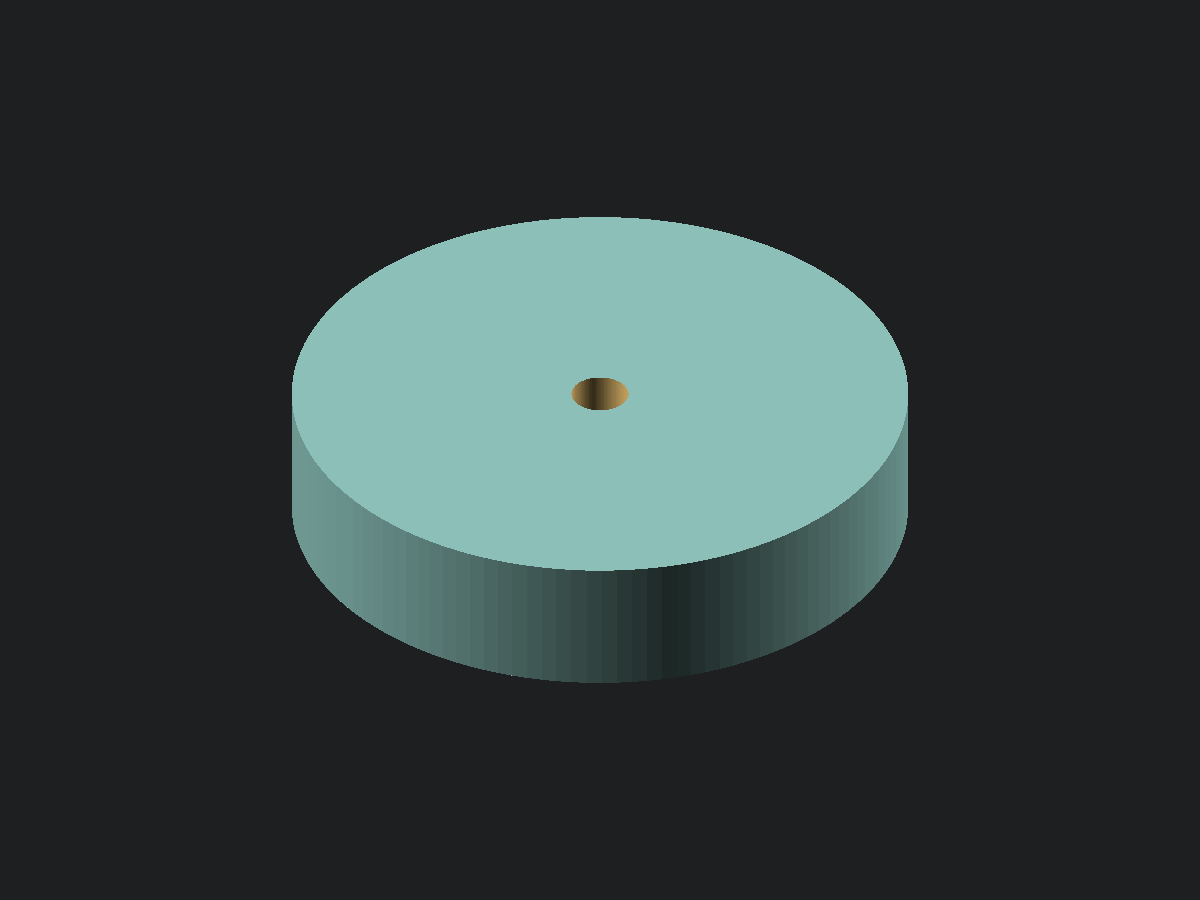
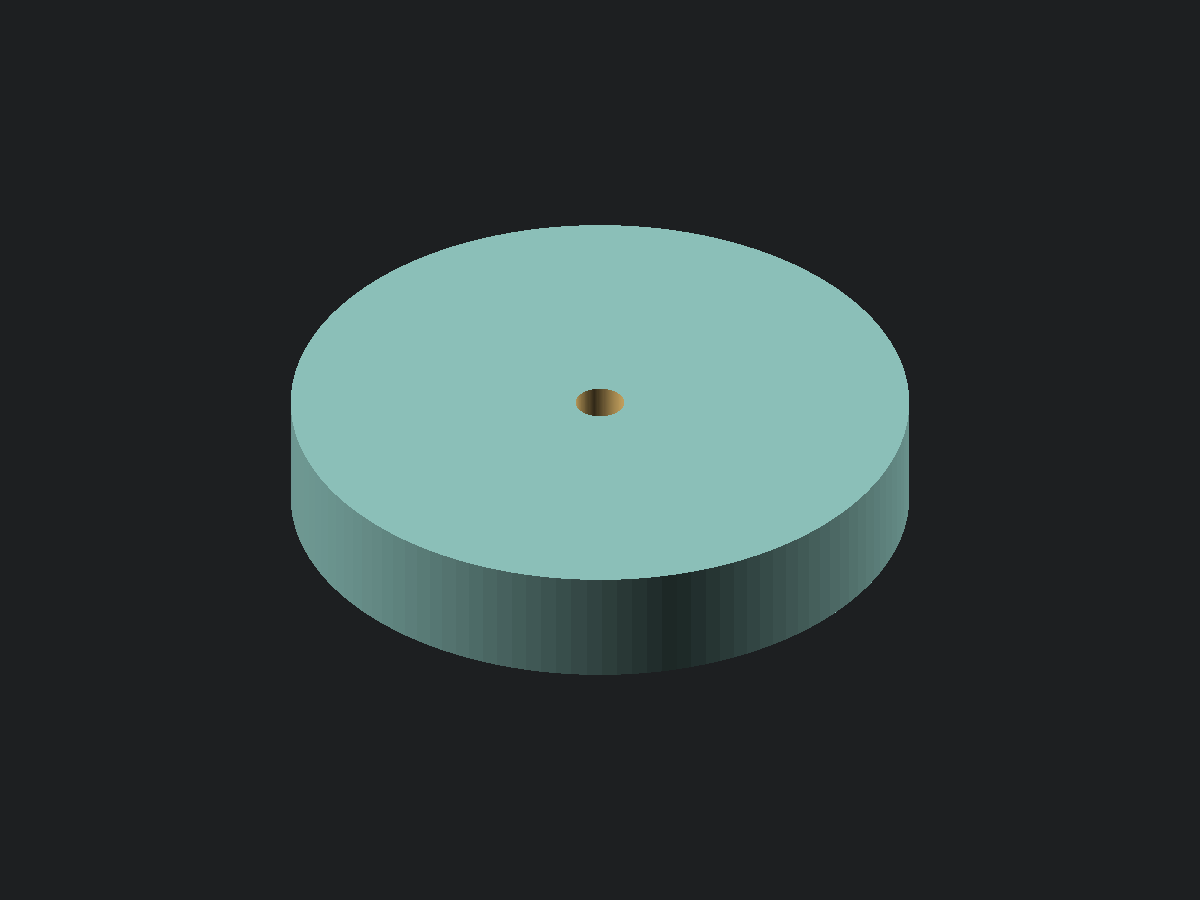
🔧 Size mounting discs for 30 mm adhesive pads

diff --git a/adhesive_mounting_disc/README.md b/adhesive_mounting_disc/README.md
@@ -11,14 +11,15 @@ adhesive disc sticks it to the back of a TV; a screw through an openGrid tile bi
 plastic. No screw goes into the TV and no heat-set insert is used. It is similar to the
 [round washer](../round_washer/README.md), with a closed bottom instead of a through bore.
 
-All dimensions are in millimetres. The supplied values are **examples**, pending the actual adhesive
-discs, screws, and tile geometry. See [openGrid notes](../OPENGRID.md) for the system.
+All dimensions are in millimetres. The disc is sized for the selected **30 mm adhesive-pad option**,
+advertised as 1 mm thick. Screw and bore dimensions remain **examples**, pending the actual screws
+and tile geometry. See [openGrid notes](../OPENGRID.md) for the system.
 
 ## Measurements and tuning
 
 | Measured parameter       | Default | Measure                               | Caliper |
 | ------------------------ | ------- | ------------------------------------- | ------- |
-| `adhesive_disc_diameter` | 25 mm   | Outside jaws across the adhesive disc | 6 in    |
+| `adhesive_disc_diameter` | 30 mm   | Outside jaws across the adhesive disc | 6 in    |
 | `screw_diameter`         | 3 mm    | Outside jaws over the screw threads   | 6 in    |
 
 | Tuning parameter  | Default | Meaning                                                      |
@@ -29,7 +30,7 @@ discs, screws, and tile geometry. See [openGrid notes](../OPENGRID.md) for the s
 | `floor_thickness` | 1 mm    | Solid plastic below the bore; values below 1 mm are rejected |
 | `$fn`             | 128     | Circular resolution                                          |
 
-The outside diameter is `adhesive_disc_diameter + 2 * adhesive_margin`: **27 mm** with the defaults.
+The outside diameter is `adhesive_disc_diameter + 2 * adhesive_margin`: **32 mm** with the defaults.
 Total thickness is `bore_depth + floor_thickness`: **6 mm** with the defaults. Increasing bore depth
 increases total thickness rather than thinning the floor. The source echoes these derived values,
 the pilot dimensions, floor thickness, and radial material remaining outside the screw threads.
@@ -58,10 +59,11 @@ Check that the chosen disc diameter fits behind the selected tile holes without 
 neighbouring discs, tile ribs, or required snap space. The disc has no grid features or spacing
 constraint; compatibility depends on the tile generator and hole positions you choose.
 
-Trial-fit the screw and tile on a loose disc before applying adhesive. Check fit and full tip reach,
-then use the adhesive maker's surface-preparation and curing instructions. Confirm the selected
-adhesive and printed material suit the TV's rear surface and operating temperature, and keep vents
-clear. Adhesion, screw retention, and load capacity need physical testing with the actual hardware.
+Adhesive mounting already works on an existing LG C5 used as a desktop monitor: accessories have
+been attached successfully with AliExpress "Alien Tape". The next physical check for this design is
+the printed disc and screw interface. Trial-fit the screw and tile on a loose disc before applying
+adhesive, checking thread bite and full tip reach. The adhesive sits on the flat closed face; its
+advertised 1 mm thickness adds to the spacing without changing the printed geometry.
 
 ## Printing and verification
 
@@ -74,8 +76,8 @@ face.
 The example dimensions have not been physically printed or fit-tested. A 1 mm minimum preserves a
 closed model; its suitability for the chosen screw and load remains untested.
 
-Geometry verified on 2026-11-06: the default export reported manifold `Status: NoError`; its mesh
-was closed with no overhangs past 45°. Scratch renders also checked a 10 mm bore depth, a 2 mm
+Geometry verified on 2026-11-06: the 32 mm default export reported manifold `Status: NoError`; its
+mesh was closed with no overhangs past 45°. Scratch renders also checked a 10 mm bore depth, a 2 mm
 floor, and a 40 mm adhesive disc. Mesh dimensions, bore-floor height and area, and volume matched
 the intended blind-bore geometry in all four cases. Floors of 0.99, 0, and -1 mm were rejected,
 along with zero bore depth, zero bore diameter, a pilot equal to the screw diameter, zero adhesive
